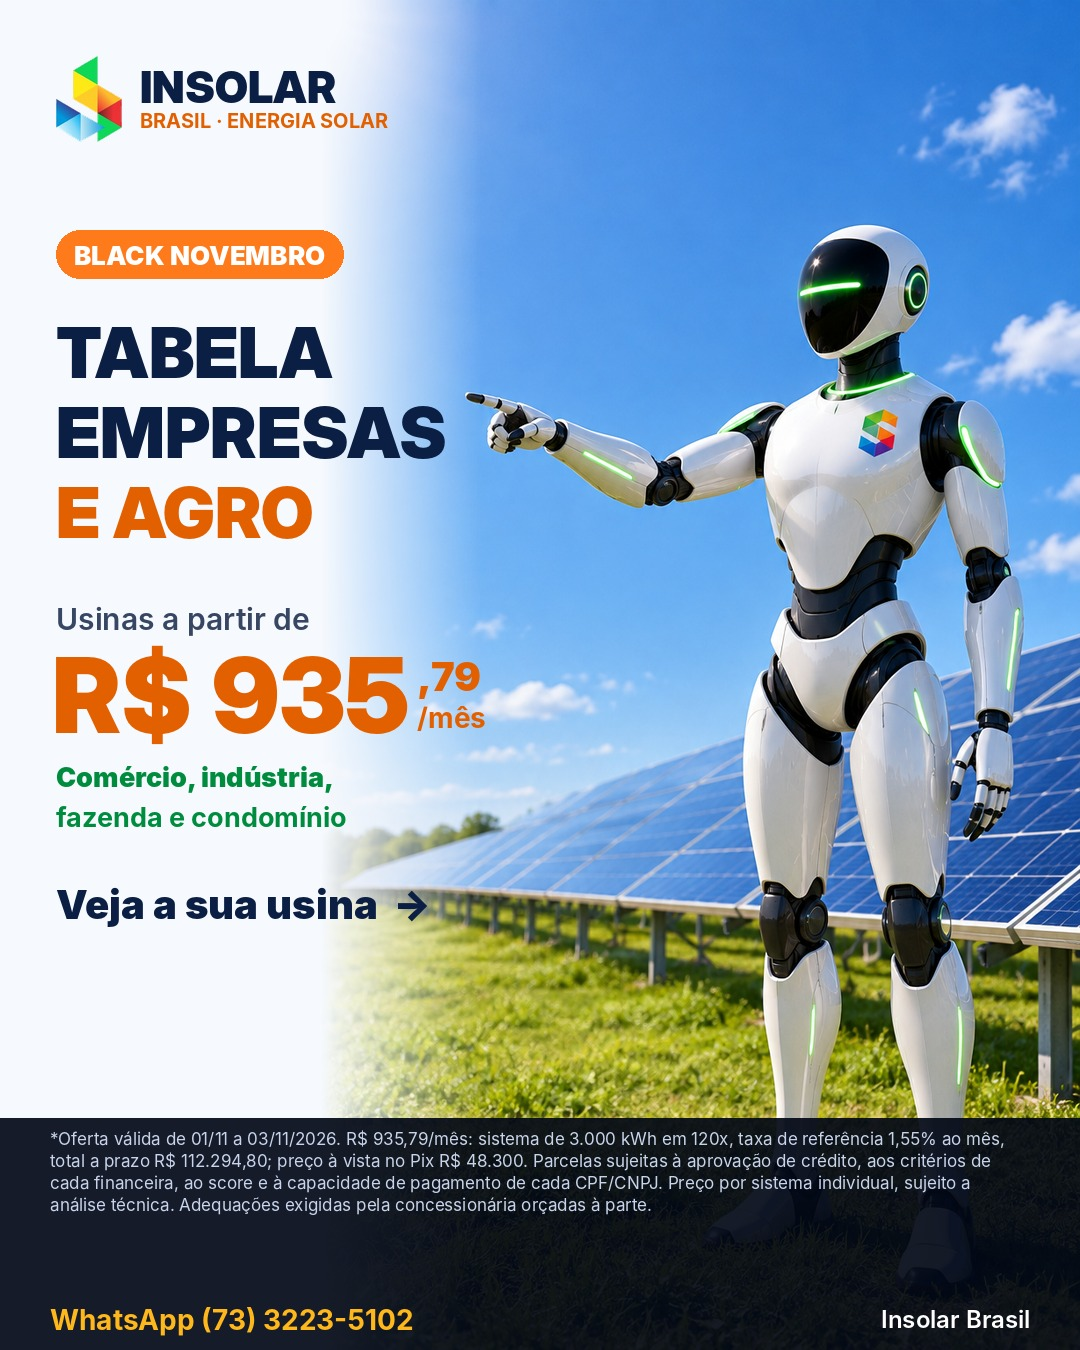
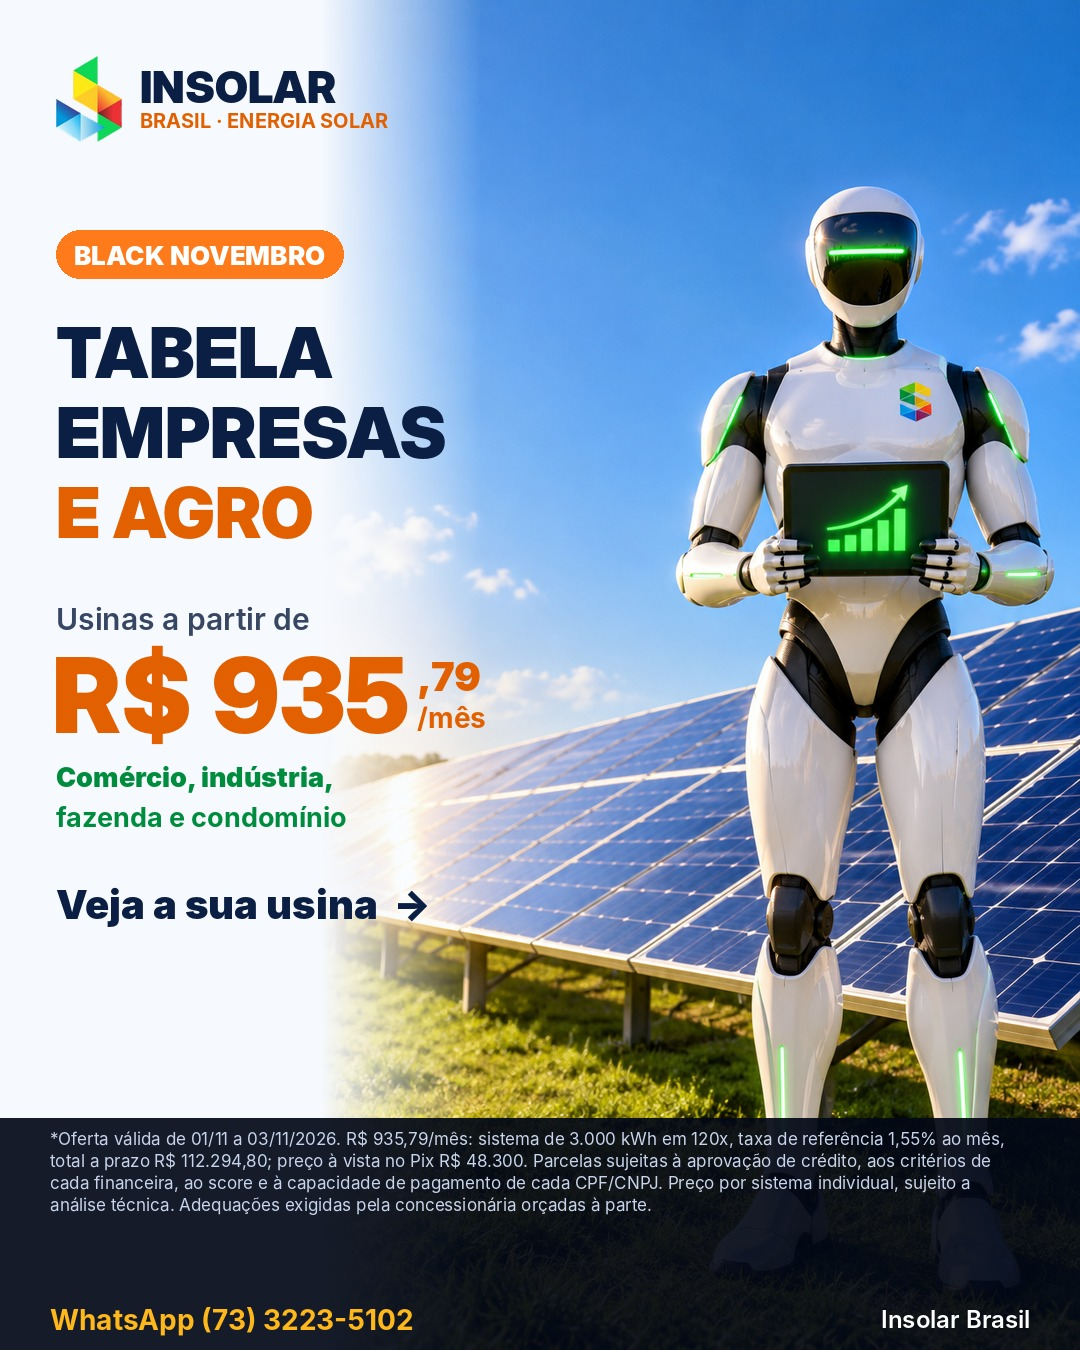
Capas claras com robô do tablet de dia

diff --git a/2026-11/precos/cards_claro.py b/2026-11/precos/cards_claro.py
@@ -102,7 +102,7 @@ def card(n,k):
     c.save(f'out/precos_claro/{n:02d}_kit_{k["kwh"]}.jpg',quality=92)
 
 def capa():
-    c=base('robo_apontando_placas_dia.png'); logo(c,w=230); d=ImageDraw.Draw(c); X=56
+    c=base('robo_tablet_placas_dia.png'); logo(c,w=230); d=ImageDraw.Draw(c); X=56
     tag(d,X,230,'BLACK NOVEMBRO')
     f=F('InterDisplay-Black.otf',70)
     for i,t in enumerate(['TABELA','DE PREÇOS','INSOLAR']): d.text((X,310+i*80),t,font=f,fill=WHITE if i<2 else GOLD)

diff --git a/2026-11/precos/empresas_claro.py b/2026-11/precos/empresas_claro.py
@@ -104,7 +104,7 @@ def card(n,k):
     c.save(f'out/empresas_claro/{n:02d}_kit_{k["kwh"]}.jpg',quality=92)
 
 def capa():
-    c=base('robo_apontando_placas_dia.png'); logo(c,w=230); d=ImageDraw.Draw(c); X=56
+    c=base('robo_tablet_placas_dia.png'); logo(c,w=230); d=ImageDraw.Draw(c); X=56
     tag(d,X,230,'BLACK NOVEMBRO')
     f=F('InterDisplay-Black.otf',70)
     for i,t in enumerate(['TABELA','EMPRESAS','E AGRO']): d.text((X,310+i*80),t,font=f,fill=WHITE if i<2 else GOLD)
